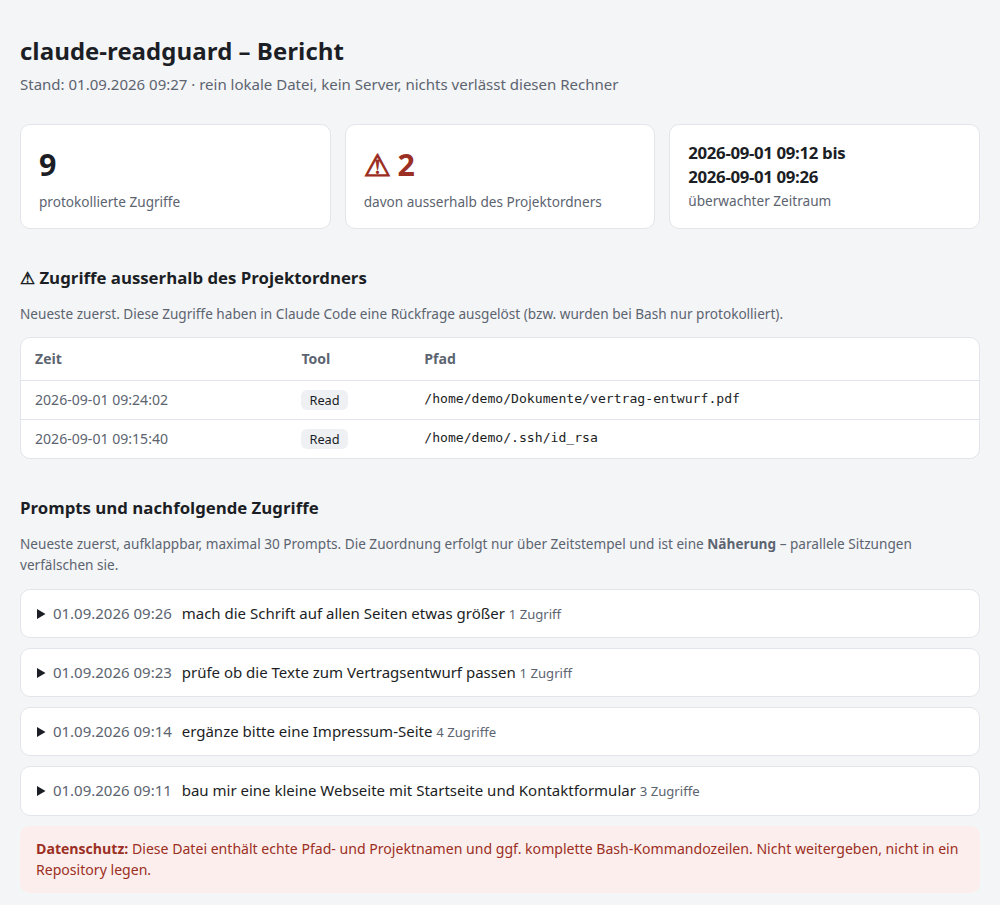
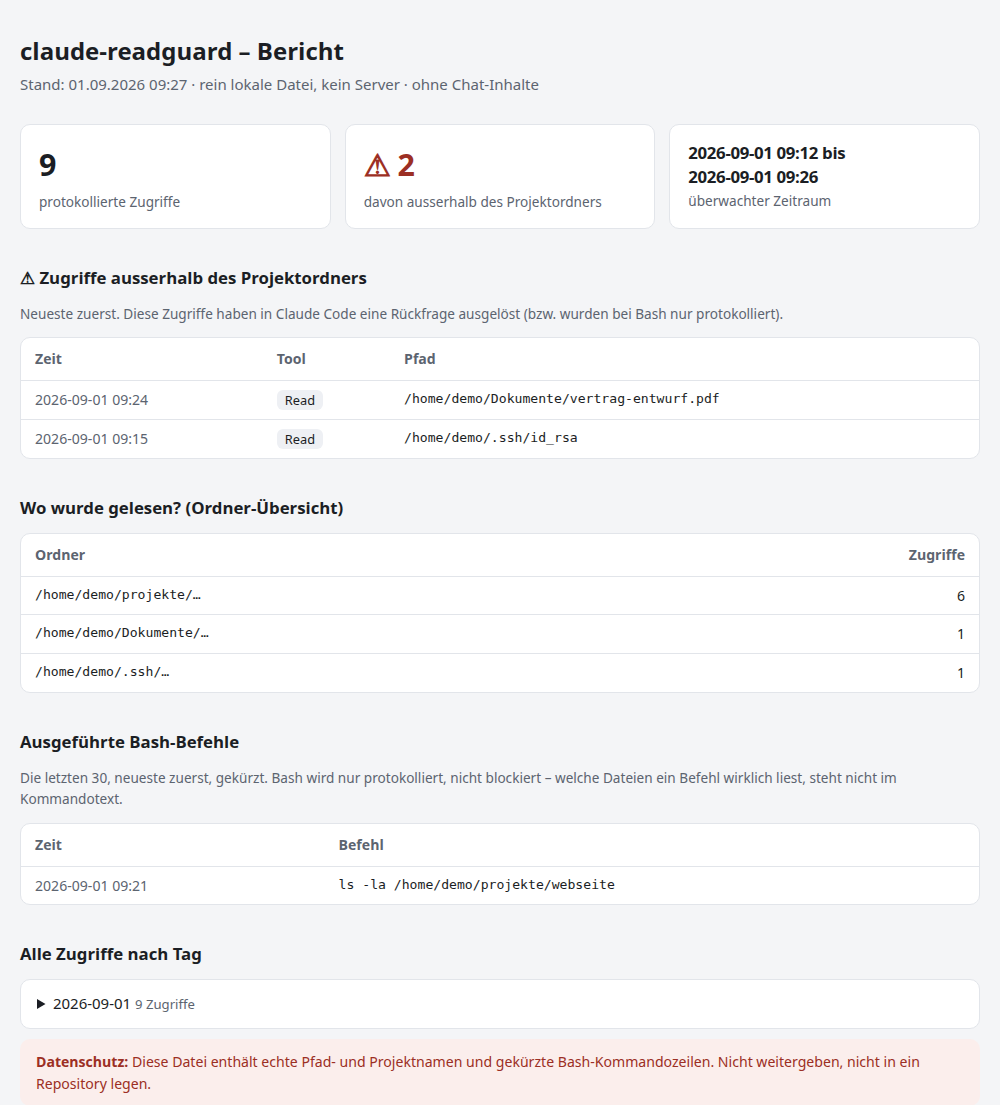
Berichte komplett ohne Chat-Inhalte: Ordner-Übersicht, Bash-Befehle und Tagesliste statt Prompt-Zeitleiste

diff --git a/README.md b/README.md
@@ -60,9 +60,11 @@ Der HTML-Bericht wird nach `~/.claude-readguard/report.html` geschrieben und
 verlässt den Rechner. Zusätzlich legt `install.sh` einen Startmenü-Eintrag
 **„Readguard Bericht"** an, der den Bericht per Klick neu erzeugt und öffnet.
 
-Beide Berichte zeigen zuerst alle `[AUSSERHALB]`-Treffer, danach die eigenen
-Prompts aus `~/.claude/history.jsonl` mit den zeitlich darauf folgenden
-Zugriffen.
+Beide Berichte zeigen zuerst alle `[AUSSERHALB]`-Treffer, danach eine
+Ordner-Übersicht (wo wurde wie oft gelesen), die zuletzt ausgeführten
+Bash-Befehle und die vollständige Zugriffsliste. **Bewusst ohne
+Chat-Inhalte:** Die eigenen Prompts erscheinen nirgends im Bericht – der
+Fokus liegt auf den Dateizugriffen.
 **Achtung:** Diese Zuordnung erfolgt nur über Zeitstempel und ist eine
 Näherung – bei parallelen Sitzungen stimmt sie nicht zuverlässig. Passt das
 History-Format nicht, fällt das Skript auf die reine Zugriffsliste zurück.
